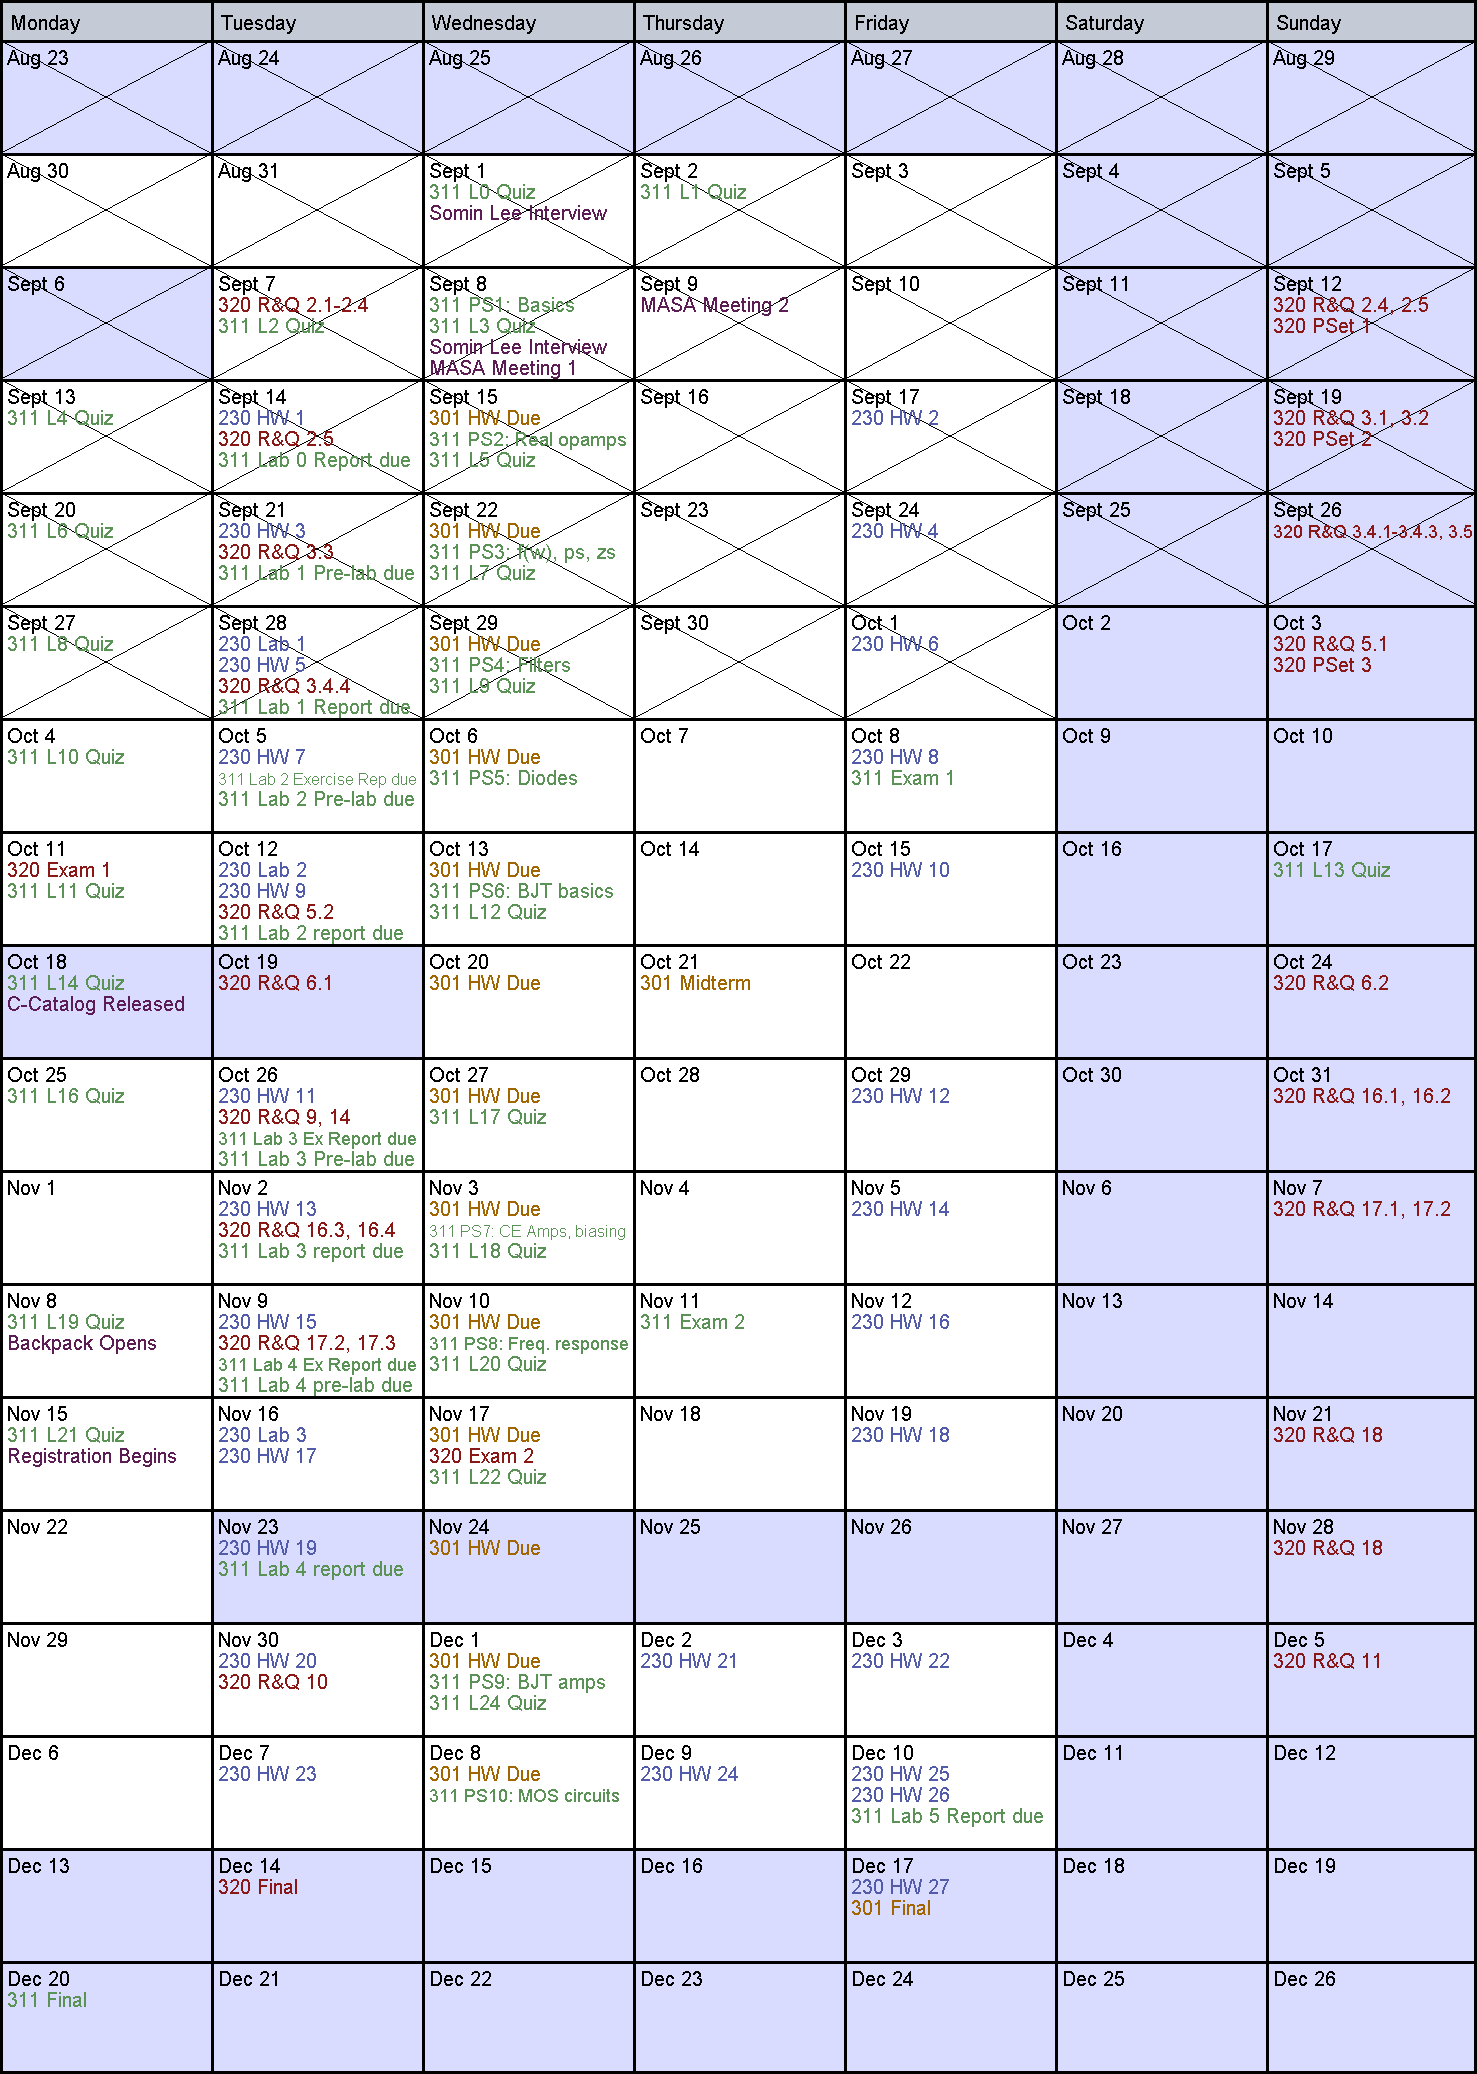
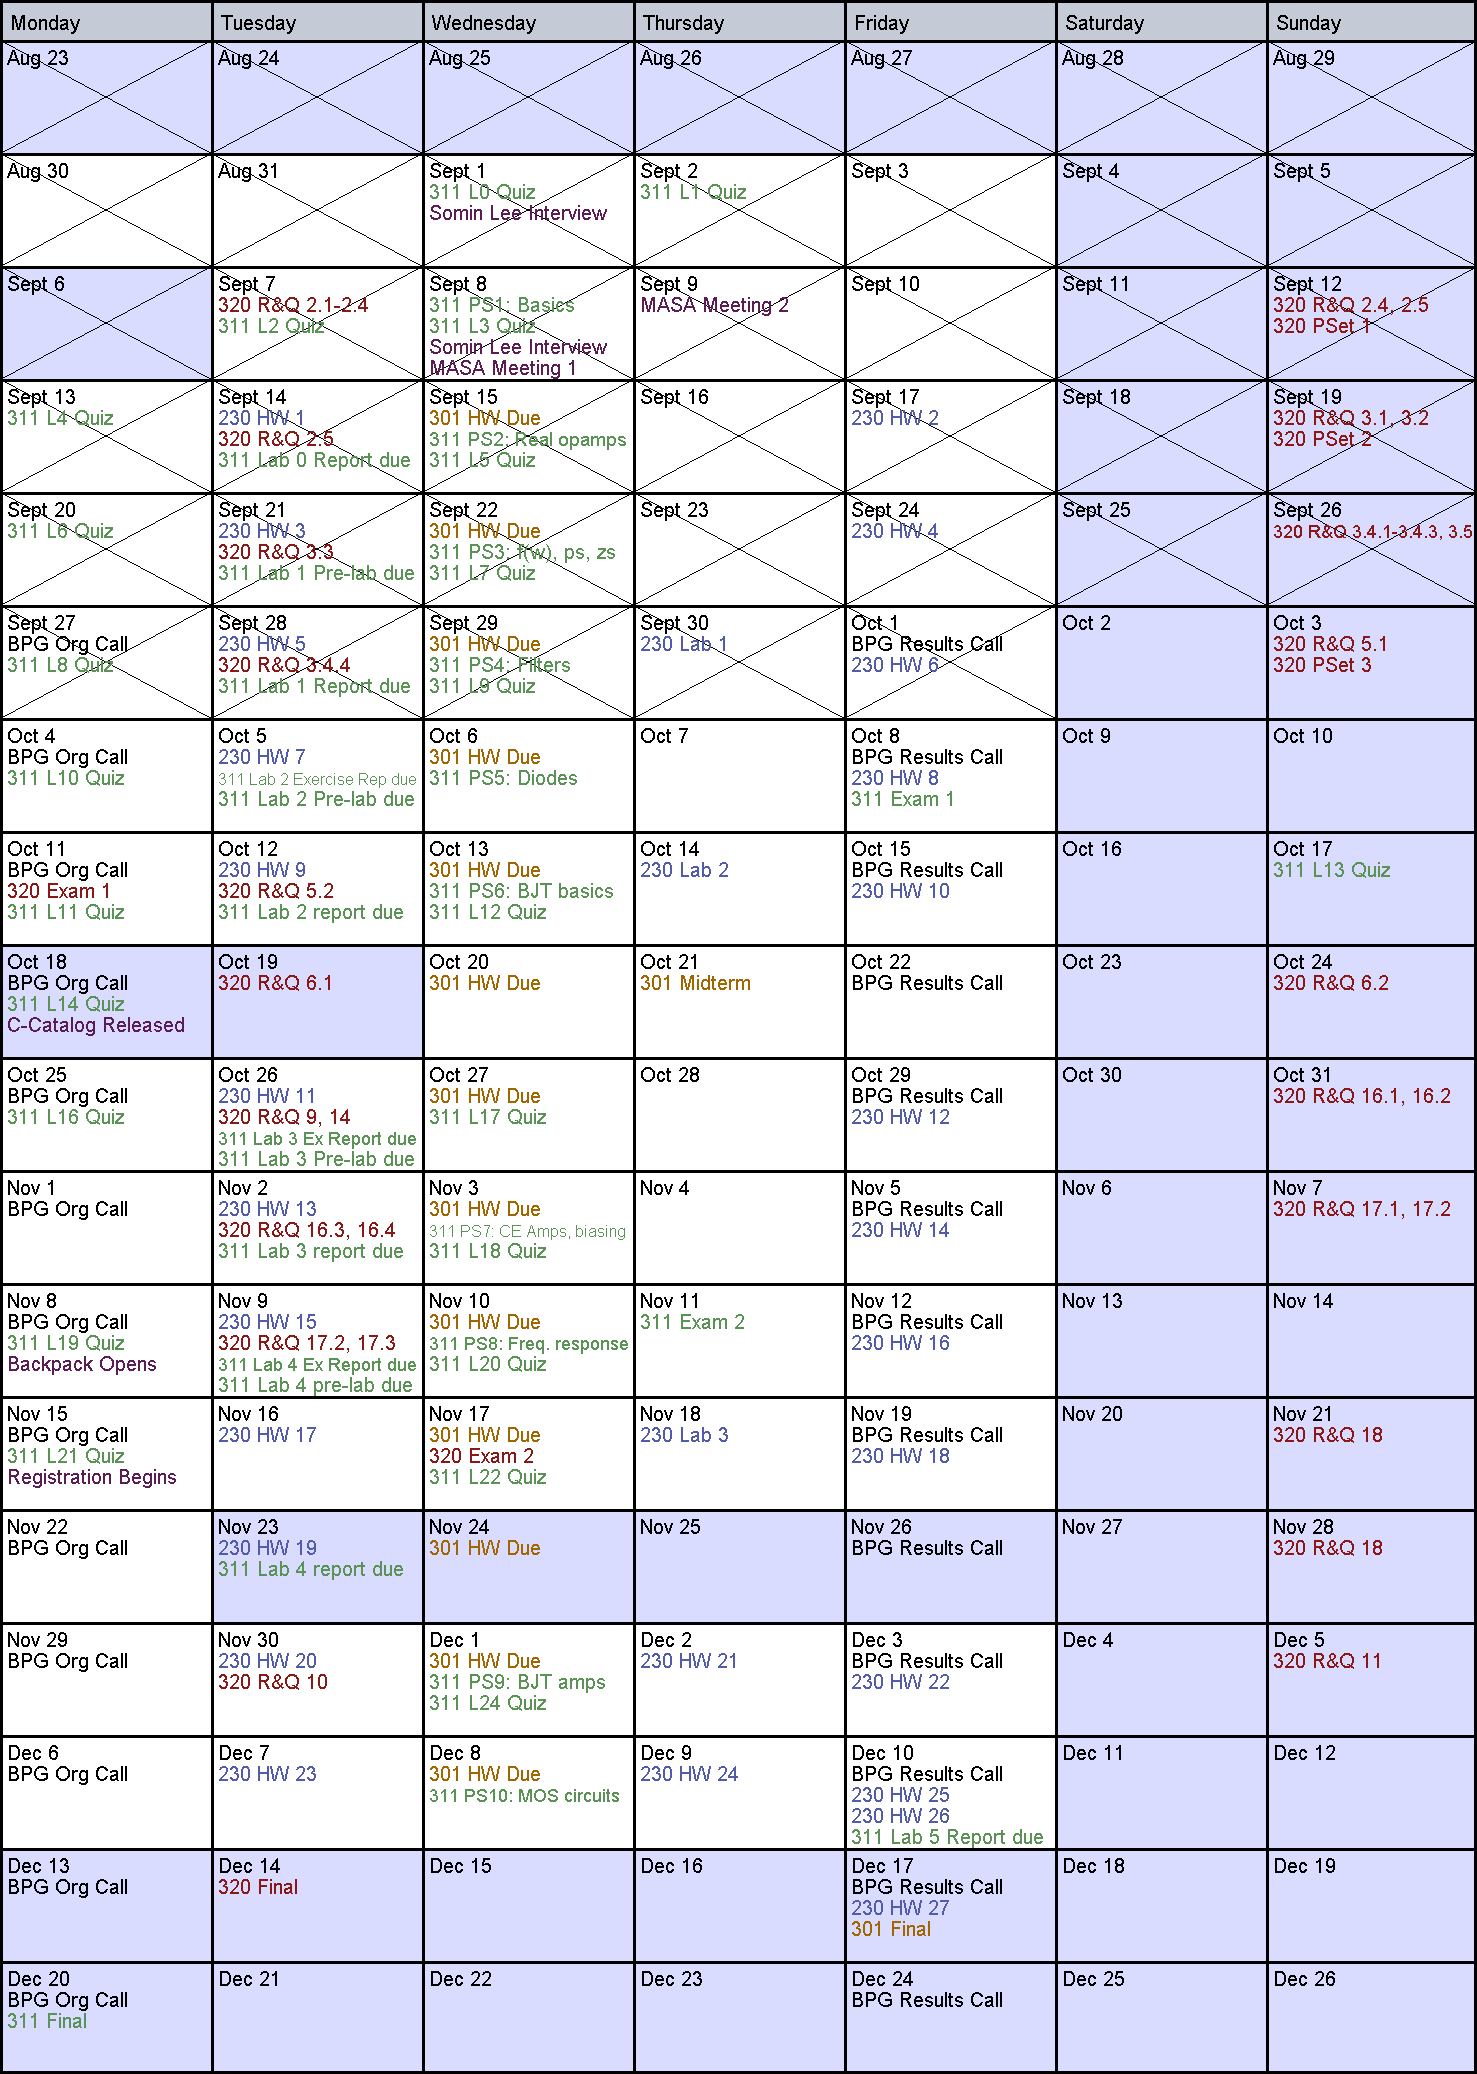
update

diff --git a/src/Calendar.java b/src/Calendar.java
@@ -85,9 +85,9 @@ public class Calendar extends Applet implements Runnable, KeyListener {
     //           ADD EVENTS TO THE CALENDAR
     public void addEvents(){
         addWeeklyEvents();
-        addEvent("230 Lab 1", getDayofYear(28,9), 1);
-        addEvent("230 Lab 2", getDayofYear(12,10), 1);
-        addEvent("230 Lab 3", getDayofYear(16,11), 1);
+        addEvent("230 Lab 1", getDayofYear(28,9)+2, 1);
+        addEvent("230 Lab 2", getDayofYear(12,10)+2, 1);
+        addEvent("230 Lab 3", getDayofYear(16,11)+2, 1);
         addEvent("230 HW 1", getDayofYear(14,9), 1);
         addEvent("230 HW 2", getDayofYear(17,9), 1);
         addEvent("230 HW 3", getDayofYear(21,9), 1);
@@ -259,6 +259,7 @@ public class Calendar extends Applet implements Runnable, KeyListener {
     private void addWeeklyEvents(){
         int fdos=getDayofYear(30,8);
         int ldos=getDayofYear(10,12);
+        int fdbg=getDayofYear(25,9);
         int secondweek=getDayofYear(12,9);
         for (int i=start; i<=end; i++){
             int day=getDayOfWeek(i);
@@ -269,6 +270,13 @@ public class Calendar extends Applet implements Runnable, KeyListener {
                     }
                 }
 
+            }
+            if(i>fdbg) {
+                if (day == 0) {
+                    addEvent("BPG Org Call", i, 0);
+                }else if (day == 4) {
+                    addEvent("BPG Results Call", i, 0);
+                }
             }
 
         }
